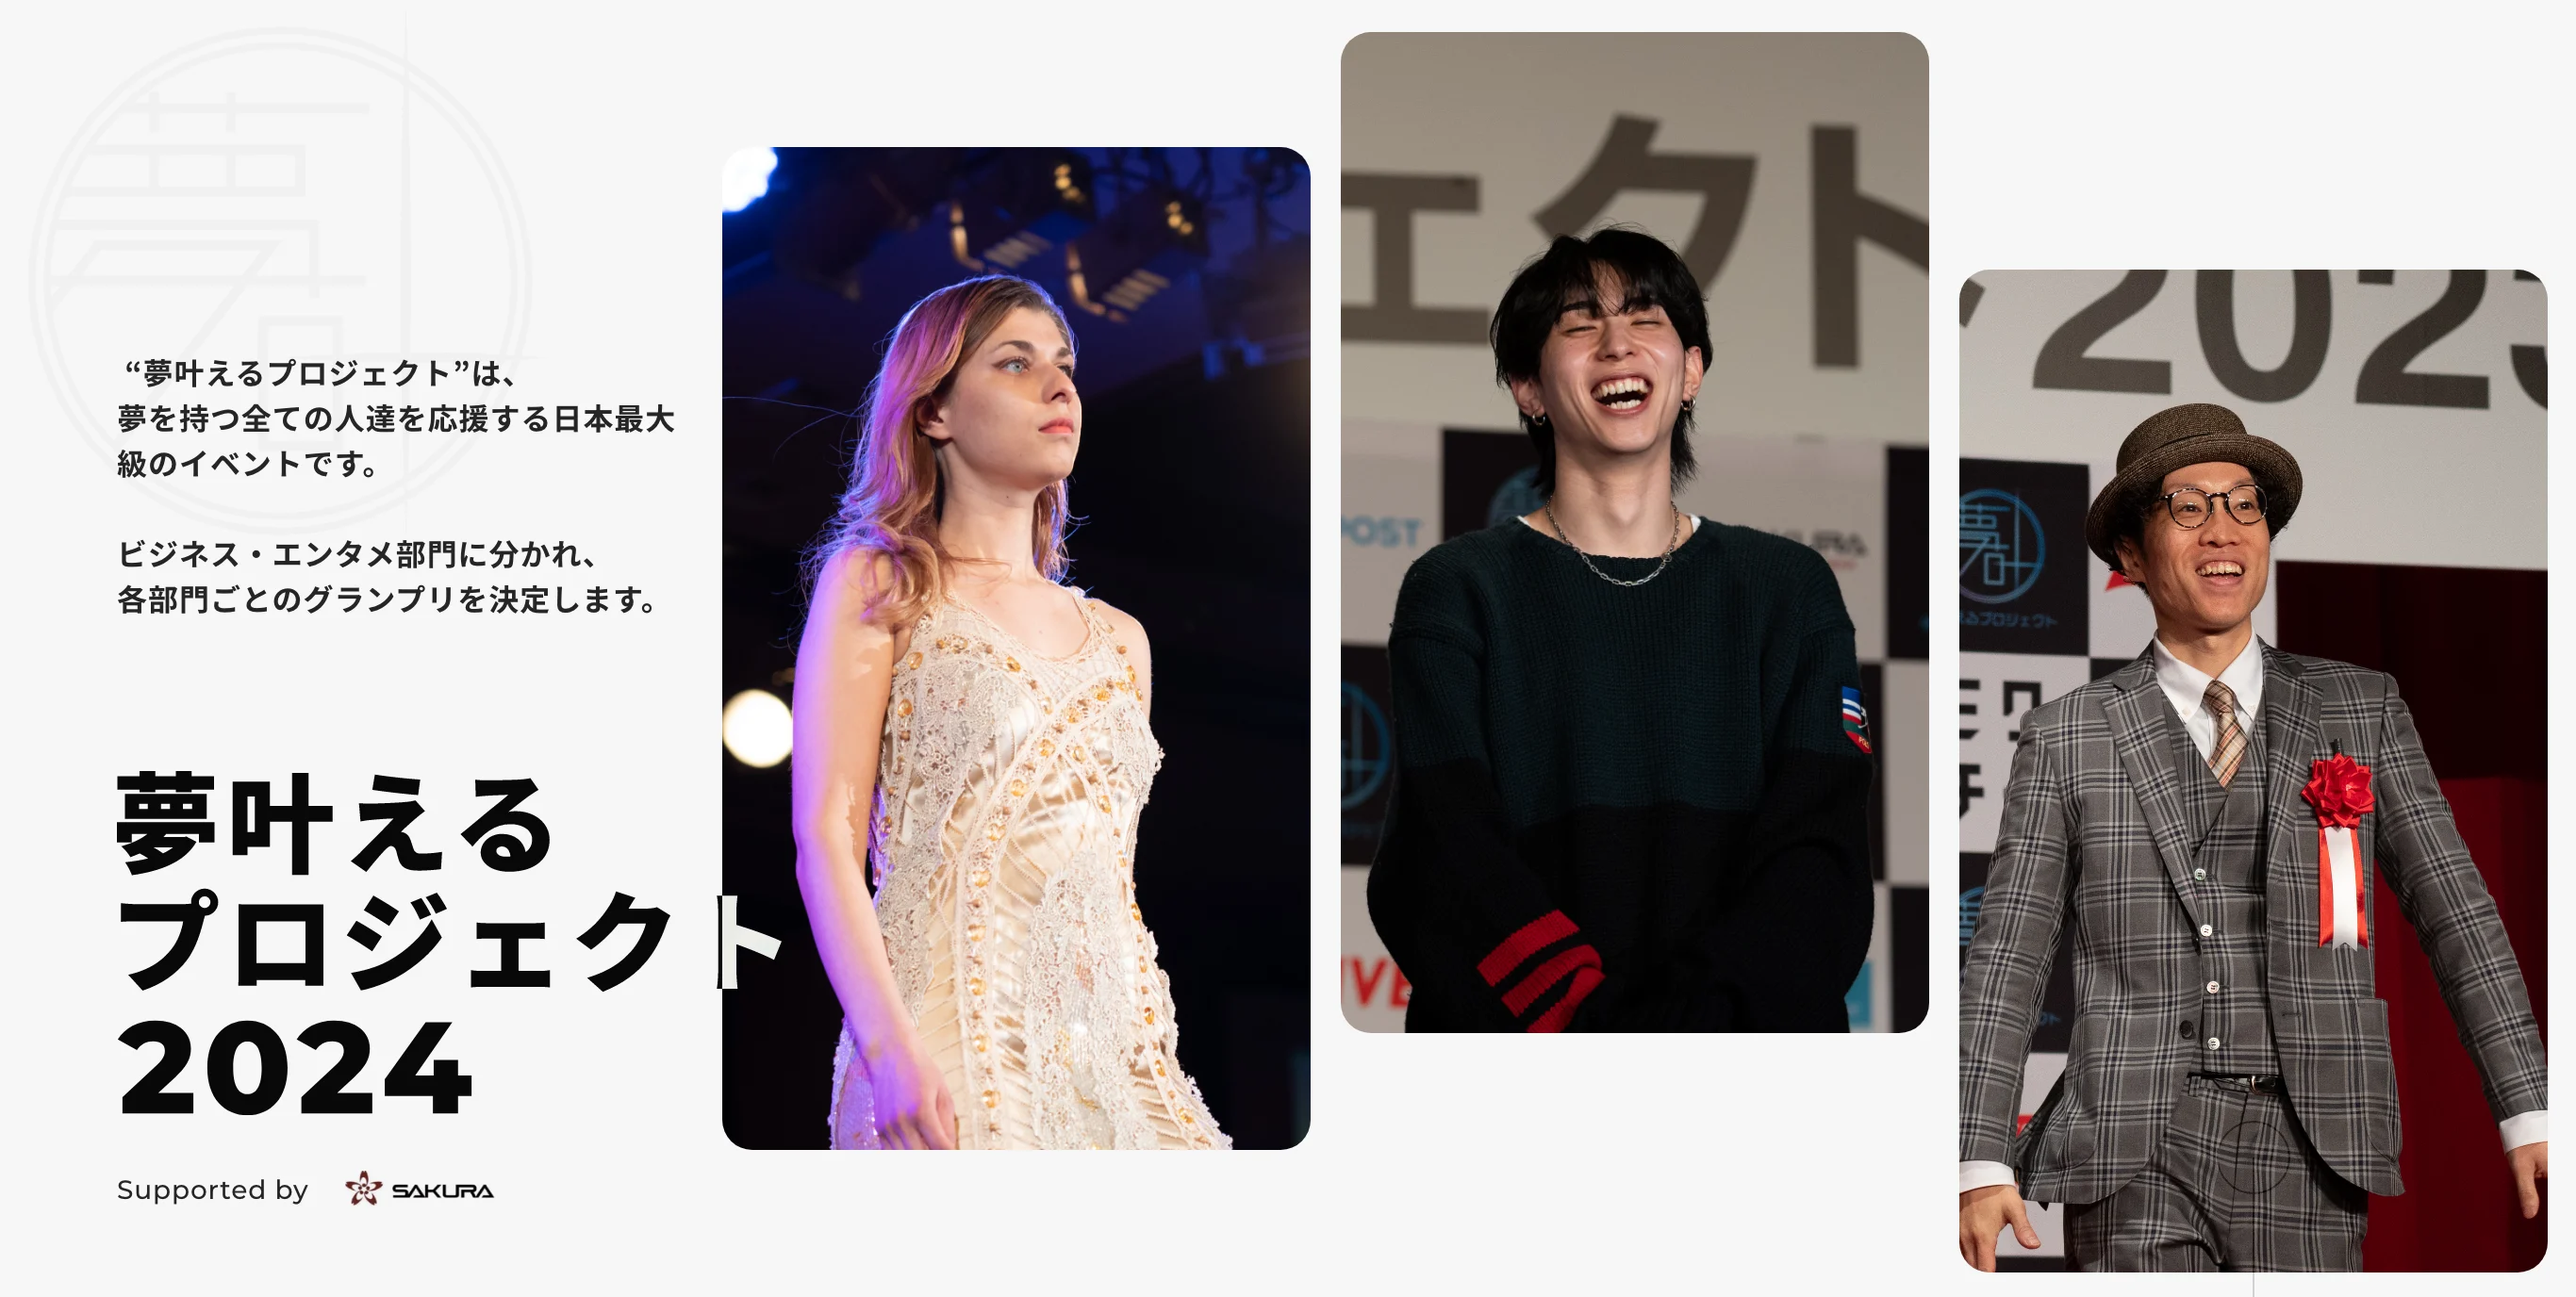
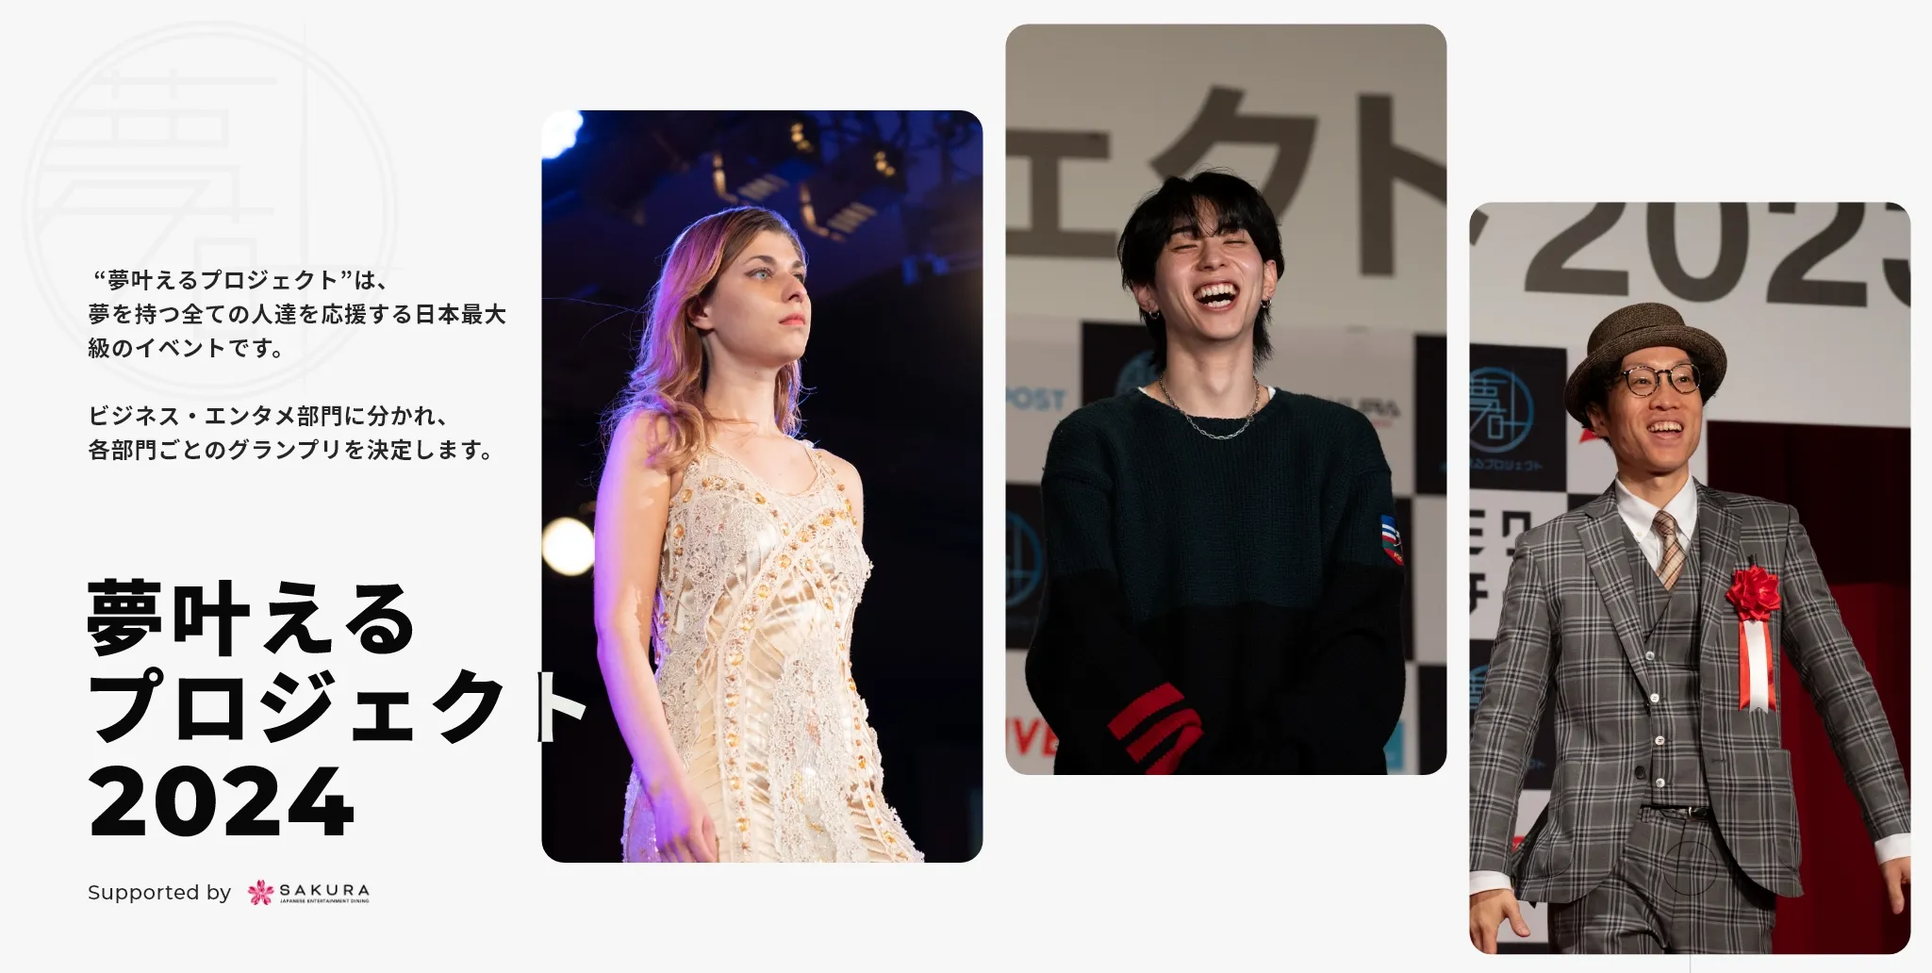
スポンサーロゴ変更等

diff --git a/src/components/busi/About.tsx b/src/components/busi/About.tsx
@@ -37,28 +37,6 @@ const contents = [
     質疑応答なし
     `,
   },
-  {
-    title: "テーマ",
-    content: `
-    各カテゴリーから1テーマ選出<br/>
-    テーマに対しての、夢・想いをプレゼンで発表<br/>
-    <br/>
-    バーチャル起業<br/>
-    Web3.0/メタバース/AR/VR/インフルエンサー/AI/ディープテック/研究開発/アプリ/ゲーム/ガジェット/eスポーツ<br/>
-    <br/>
-    おもてなし起業<br/>
-    不動産/宿泊/観光/交通/SaaS/システム/DX/飲食<br/>
-    <br/>
-    サービス起業<br/>
-    サステナビリティ/ソーシャルグッド/地方創生/ウェルネスビューティー/サービス<br/>
-    <br/>
-    アパレル起業<br/>
-    D2C/サブスク/EC(コスメ・ファッション)<br/>
-    <br/>
-    芸能エンタメ起業<br/>
-    芸能エンターテインメント(歌・ダンス・スポーツ・コミック・芸術・小説)
-    `,
-  },
 ];
 
 const About = () => {

diff --git a/src/components/busi/Sponsor.tsx b/src/components/busi/Sponsor.tsx
@@ -18,7 +18,10 @@ const Sponsor = () => {
           スポンサー企業さま
         </p>
       </h2>
-      <div className="container grid grid-cols-3 md:grid-cols-5 gap-3 md:gap-5 px-5 mt-10 mx-auto md:max-w-4xl max-w-lg pb-10">
+      <p className="text-center md:text-5xl text-3xl font-black bg-clip-text bg-gradient-to-tr from-[#C52CFD] to-[#2D4BB5] text-transparent py-20">
+        — COMING SOON —
+      </p>
+      {/*      <div className="container grid grid-cols-3 md:grid-cols-5 gap-3 md:gap-5 px-5 mt-10 mx-auto md:max-w-4xl max-w-lg pb-10">
         <div className="item">
           <Image
             className={"rounded-md mx-auto"}
@@ -110,6 +113,7 @@ const Sponsor = () => {
           />
         </div>
       </div>
+  */}
       <a href="" className="button md:text-xl text-base font-bold relative">
         スポンサーさま募集
         <Image

diff --git a/src/components/top/Sponsor.tsx b/src/components/top/Sponsor.tsx
@@ -27,7 +27,7 @@ const Sponsor = () => {
         <p className="mt-6 md:mt-12 font-semibold">メインスポンサー</p>
         <div className="mt-2">
           <Image
-            src={"/top/sponsor/sakura_logo.jpg"}
+            src={"/top/sponsor/sakura_logo.webp"}
             alt="sakura"
             width={320}
             height={320}

diff --git a/src/components/top/Fv.tsx b/src/components/top/Fv.tsx
@@ -72,8 +72,8 @@ const Fv = () => {
             <SwiperSlide key={`${index}`}>
               <Image
                 src={src}
-                width={1280}
-                height={800}
+                width={1366}
+                height={688}
                 alt={`image${index}`}
                 className={"w-full"}
               />

diff --git a/src/app/business/page.tsx b/src/app/business/page.tsx
@@ -23,7 +23,7 @@ const BusinessPage = () => {
         <Adviser />
         <Committee />
         <About />
-        <Award />
+        {/*        <Award />*/}
         <Schedule />
         <Venue />
         {/*        <Meetup />*/}

diff --git a/src/app/page.tsx b/src/app/page.tsx
@@ -82,7 +82,7 @@ const Home = () => {
         <Schedule />
         <Entry />
         <Cta />
-        <Story />
+        {/*        <Story />*/}
         <Sponsor />
         <Ambassadors />
         <Sns />
